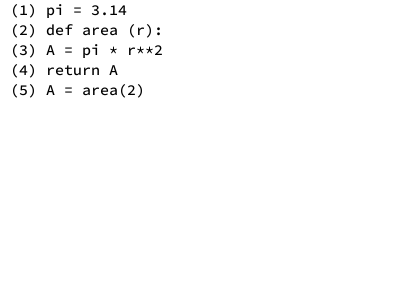
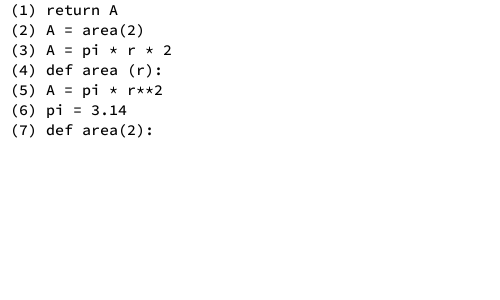
new changes incorporated

Changed region(s): [[0.0, 0.0, 0.42, 0.45]]

diff --git a/lib/functions.py b/lib/functions.py
@@ -1,13 +1,26 @@
+from . import settings
 import random
 from PIL import Image, ImageDraw, ImageFont
 
 def read_original_code(read_code):
-    correct_sol = read_code.readlines()
-    #Removing \n character from each line
+    original_code = read_code.readlines()
+    wrong_inst = []
+    
+    code_wo_empty_lines = [line for line in original_code if line.strip() != ""]
+    correct_sol = code_wo_empty_lines.copy()
+    
     for el in range(len(correct_sol)):
         correct_sol[el] = correct_sol[el].split('\n')[0]
+
     
-    return correct_sol    
+    for line in correct_sol:
+        #Extracting wrong instructions
+        if "Incorrect lines" in line:
+            wrong_inst= correct_sol[correct_sol.index(line)+1:]
+            correct_sol = correct_sol[:correct_sol.index(line)]
+            break
+        
+    return correct_sol, wrong_inst
 
 def shuffle_sol(correct_sol):
     random_code = random.sample(correct_sol, k=len(correct_sol))
@@ -20,6 +33,9 @@ def shuffle_sol(correct_sol):
 
 def gen_correct_answer(correct_sol, shuffled_sol):
     correct_answer = ""
+    all_lines = [ str(i+1) for i in range(len(shuffled_sol))]
+    remain_lines = all_lines.copy()
+    
     for line_cor in correct_sol:
         for line_shuf in shuffled_sol:
             # print(f"Instruction: {line_shuf}  , index of ): ", line_shuf.index(")"))
@@ -27,8 +43,16 @@ def gen_correct_answer(correct_sol, shuffled_sol):
             # if line_cor == line_shuf[4:]:
             if line_cor == shuffled_line:
                 correct_answer += str(shuffled_sol.index(line_shuf)+1) + ","
+            
     correct_answer = correct_answer[:-1]
-    return correct_answer
+    
+    
+    #generating remaining lines which are not present the correct answer 
+    for line in all_lines:
+        if line in correct_answer:
+            remain_lines.remove(line)
+            
+    return correct_answer, remain_lines
 
 def convert_to_image(shuffled_sol, file_name):
     image = Image.new('RGB', (500, 300), color = (255, 255, 255))   
@@ -62,3 +86,59 @@ def gen_random_choices(correct_answer, no_of_choices):
     random_choices.append(correct_answer)        
     random_choices = shuffle_rand_choices(random_choices)
     return random_choices        
+
+# Function to calculate similarity between two sequences
+def sequence_similarity(seq1, seq2):
+    set1 = set(seq1)
+    set2 = set(seq2)
+    return len(set1.intersection(set2))
+
+def gen_random_choices_wICinst(correct_answer, no_of_choices, remain_lines):
+    random_choices = []
+    choice_array = correct_answer.split(",")
+    total_lines = len(choice_array + remain_lines)
+
+    while len(random_choices) < no_of_choices - 1:
+        # Select the first three lines from the correct answer
+        first_X_lines_MCQ = correct_answer.split(",")[:settings.first_same_X_lines_MCQ]
+        remaining_array = correct_answer.split(",")[len(first_X_lines_MCQ):]
+        
+        # Define the size of the remaining part of the random sequence (k)
+        # k = random.randint(len(choice_array) - 1, len(choice_array) + len(remain_lines) - 1)
+        k = random.randint(len(remaining_array) - 1, len(remaining_array) + len(remain_lines) - 1)
+        
+        # Randomly select numbers from choice_array and remain_lines to complete the sequence
+        # remaining_choices = random.sample(choice_array + remain_lines, k - 3)
+        remaining_choices = random.sample(remaining_array + remain_lines, k)
+        
+        # Combine the first three lines and the remaining choices
+        choices = first_X_lines_MCQ + remaining_choices
+        
+        # Shuffle the remaining choices to randomize the order
+        random.shuffle(choices[3:])
+        
+        # Convert the choices to a string
+        choice = ",".join(map(str, choices))
+
+        # Calculate similarity between the random sequence and the correct answer
+        similarity = sequence_similarity(choice.split(","), correct_answer.split(","))
+
+        # Check if the generated sequence is close to the correct answer
+        if choice != correct_answer and similarity >= len(correct_answer.split(",")) - 1:
+            random_choices.append(choice)
+    
+    random_choices.append(correct_answer)
+    random_choices = shuffle_rand_choices(random_choices)
+    return random_choices        
+
+def incorrect_instructions(input_code, wrong_inst):
+    code_w_incorrect_instrctns = input_code + wrong_inst
+    print_code(code_w_incorrect_instrctns, "##### Code with Incorrect Instructions #####")
+    return code_w_incorrect_instrctns
+    
+
+def print_code(in_code, message = "##### Code #####"):
+    print()
+    print(message)
+    for line in in_code:
+        print(line)

diff --git a/main.py b/main.py
@@ -1,6 +1,8 @@
 #v2
+from lib import settings
 from lib import functions
 import sys
+
 #Reading code, extracting lines separately
 if sys.argv[1]:
     file_name = sys.argv[1]
@@ -9,35 +11,38 @@ else:
     sys.exit(1)
     
 read_code = open('codefiles/'+file_name)
-correct_sol = functions.read_original_code(read_code)
+correct_sol, wrong_inst = functions.read_original_code(read_code)
 
 
-print("##### Correct Solution #####")
-for line in range(len(correct_sol)):
-    print(correct_sol[line])
-print()
-
-#Shuffle the original code lines and tag them with line numbers
-shuffled_sol = functions.shuffle_sol(correct_sol)
+message = "##### Correct Solution #####"
+functions.print_code(correct_sol, message)
 
 
-print("***** Shuffled Solution *****")
-for line in range(len(shuffled_sol)):
-    print(shuffled_sol[line])
-print()
+if settings.include_incorrect_instructions:
+    with_incorrect_insts = functions.incorrect_instructions(correct_sol, wrong_inst)
+    shuffled_sol = functions.shuffle_sol(with_incorrect_insts)
+else:    
+    #Shuffle the original code lines and tag them with line numbers
+    shuffled_sol = functions.shuffle_sol(correct_sol)
+
+message = "***** Shuffled Solution *****"
+functions.print_code(shuffled_sol, message)
 
 #generating the correct answer with the correct order of code lines
-correct_answer = functions.gen_correct_answer(correct_sol, shuffled_sol)
-print(f"Correct Answer: {correct_answer}")
-
+correct_answer, remain_lines = functions.gen_correct_answer(correct_sol, shuffled_sol)
 
 #generating multiple random choices including the correct answer
-no_of_choices = 4
-random_choices = functions.gen_random_choices(correct_answer, no_of_choices)
+no_of_choices = 5
+
+if settings.include_incorrect_instructions:
+    random_choices = functions.gen_random_choices_wICinst(correct_answer, no_of_choices, remain_lines)
+else:
+    random_choices = functions.gen_random_choices(correct_answer, no_of_choices)
 
 print()
 print("Multiple answers: ", random_choices) 
-print("Correct answer: ", correct_answer)    
+print("Correct answer: ", correct_answer)
+print()    
 
 ######## Shuffled Code for Image without indendation
 image_shuffled_sol = []

diff --git a/codefiles/final-1-files.py b/codefiles/final-1-files.py
@@ -6,3 +6,8 @@ for value in data:
 avg = sum/len(data)
 file.write(str(avg))
 file.close()
+
+#Incorrect lines
+avg = sum/data
+file.write(avg)
+sum += value

diff --git a/codefiles/E1-A.py b/codefiles/E1-A.py
@@ -3,3 +3,7 @@ def area (r):
     A = pi * r**2
     return A
 A = area(2)
+
+#Incorrect lines
+def area(2):
+    A = pi * r * 2

diff --git a/lib/settings.py b/lib/settings.py
@@ -1,0 +1,2 @@
+include_incorrect_instructions = True
+first_same_X_lines_MCQ = 4
